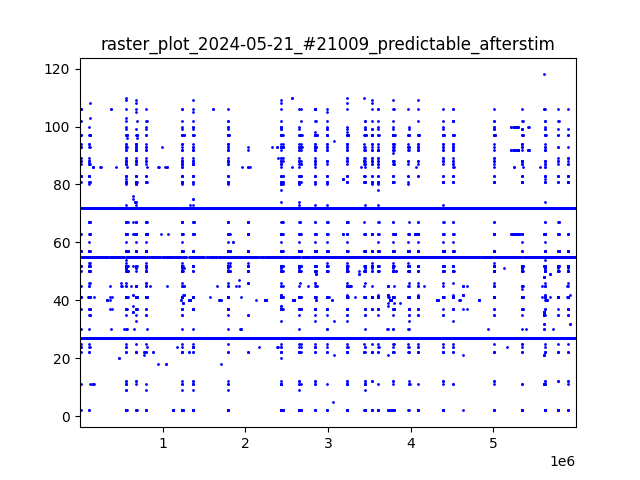
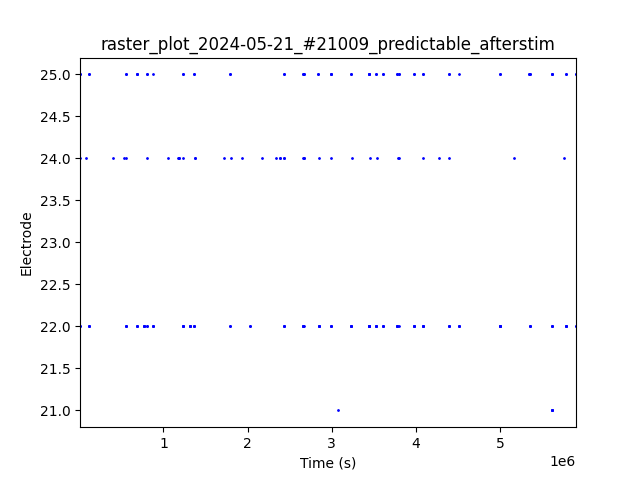
change the spikes and burst and ruster plot

diff --git a/Chanels.py b/Chanels.py
@@ -68,8 +68,8 @@ class ChannelAnalyzer:
         self.dt = 1 / sampling_rate
 
         # Load the data
-        self.data = RawData(self.file_path)  # change this
-        self.analog_stream = self.data.recordings[0].analog_streams[2]
+        self.data = RawData(self.file_path)  
+        self.analog_stream = self.data.recordings[0].analog_streams[3]# the filter data is in 3
         self.channel_data = self.analog_stream.channel_data
         self.date = self.data.date
 
@@ -110,7 +110,7 @@ class ChannelAnalyzer:
             self.active_check()
             self.find_Average_Spikes()
             self.Spikes_rate = self.num_of_spikes / len(self.time_vec)
-            if self.find_burst(3, 3):  # change this to be - the num of burst 50 milisec
+            if self.find_burst():  # change this to be - the num of burst 50 milisec
                 self.Num_Of_Bursts = len(self.Group_Of_Bursts)
                 self.burst_rate = self.Num_Of_Bursts / len(self.time_vec)
             if self.num_of_spikes >= 10:
@@ -133,7 +133,7 @@ class ChannelAnalyzer:
     def find_spikes(self, threshold_factor=6):  # change the formula to find spiks
         overall_std_deviation = np.std(self.samples_vec)
         threshold_value = threshold_factor * overall_std_deviation
-        mask = np.abs(self.samples_vec) > threshold_value
+        mask = np.abs(self.samples_vec- np.mean(self.samples_vec)) > threshold_value
         if np.all(~mask):
             self.spikes_samples_vec = np.array([])
             self.spikes_samples_vec_time = np.array([])
@@ -181,7 +181,7 @@ class ChannelAnalyzer:
             self.Average_Spikes = np.mean([abs(x) for x in self.max_values])
         return self.Average_Spikes
 
-    def find_burst(self, max_dist, min_spikes):  # the dist is milisec?
+    def find_burst(self, max_dist=0.05*10**4, min_spikes=3):  # the dist is milisec?
         count = 0
         sum = 0
         temp = []
@@ -211,19 +211,20 @@ class ChannelAnalyzer:
     def find_start_burst_time(self):
         self.burst_start_time = []
         for i in range(1, len(self.Group_Of_Bursts) - 1):
-            self.burst_start_time.append(self.Group_Of_Bursts[1][1])
+            self.burst_start_time.append(self.Group_Of_Bursts[i][1])
         return 0
 
-    def plot_signal(self, record_type):
+    def plot_signal(self):
         output_dir = 'spikes_and_barst'
         os.makedirs(output_dir, exist_ok=True)
         for value in self.max_values_time:
             value = value / (10 ** 4)
             plt.axvline(x=value, ymin=0, ymax=0.06, color='r', linestyle='-')
 
-        for v in self.burst_start_time:
-            v = v / (10 ** 4)
-            plt.axvline(x=value, ymin=0.94, ymax=1, color='b', linestyle='-')
+        if self.Group_Of_Bursts!=[]:
+            for v in self.burst_start_time:
+                v=v/10**4
+                plt.axvline(x=v, ymin=0.94, ymax=1, color='b', linestyle='-')
 
         pattern = r'(\d{4}-\d{2}-\d{2})T\d{2}-\d{2}-\d{2}McsRecording_MEA(\d+)_(predictable|control)_(afterstim|baseline)'
 
@@ -241,7 +242,7 @@ class ChannelAnalyzer:
             graph_name = "dug"
         plt.plot(self.time_vec, self.samples_vec)
         plt.xlabel('Time (s)')
-        plt.ylabel('Amplitude (microV)')
+        plt.ylabel('Amplitude (V)')
         plt.title(graph_name)
         plt.grid(True)
         plt.savefig(graph_name)

diff --git a/analysis_manager.py b/analysis_manager.py
@@ -31,8 +31,7 @@ sampling_rate = 10000  # sample rate in Hz
 
 # path to file that we want to run action 1-3
 # raw_data_path = "C:/Users/user/Desktop/bar ilan/Forth year/project/your_file.h5"  # YOAV'S LINK
-raw_data_path = r"C:\Users\dvirg\OneDrive\Desktop\toar1\year4\project\CODE\recorders\2024-06-13T17-31-24McsRecording_MEA23414_predictable_baseline_A-00020.h5"
-
+raw_data_path = r"C:\Users\dvirg\OneDrive\Desktop\toar1\year4\project\CODE\recorders\2024-05-21T15-43-17McsRecording_MEA21009_predictable_afterstim_A-00020.h5"
 # Paths to the files thst we want to run action 4(compare between files)
 file_path_compare1 = "C:/Users/dvirg/OneDrive/Desktop/toar1/year4/project/CODE/2024-06-13T14-15-16McsRecording_MEA21009_predictable_baseline_A-00020.h5"  # Replace with the actual path to baseline file
 file_path_compare2 = "C:/Users/dvirg/OneDrive/Desktop/toar1/year4/project/CODE/2024-06-13T14-35-58McsRecording_MEA21009_predictable_afterstim_A-00020.h5"  # Replace with the actual path to stimulus file
@@ -41,11 +40,6 @@ file_path_compare2 = "C:/Users/dvirg/OneDrive/Desktop/toar1/year4/project/CODE/2
 predictable_file = '2024-02-01_21009_predictable.xlsx'
 controller_file = '2024-02-01_20490_control.xlsx'
 
-print("choose channel id:")
-channel_id = int(input())  # Example channel ID
-
-# Initialize the ChannelAnalyzer for the selected channel
-channel_analyzer = ChannelAnalyzer(raw_data_path, channel_id, sampling_rate)
 
 print("choose action: \n1: plot signal \n2: plot_heatmap\n3: raster_plot\n4: electrode_comparison_analysis")
 
@@ -54,7 +48,13 @@ action = int(input())
 
 # plot signal
 if action == 1:
-    channel_analyzer.plot_signal(record_type=True)
+    print("choose channel id:")
+    channel_id = int(input())  # Example channel ID
+
+    # Initialize the ChannelAnalyzer for the selected channel
+    channel_analyzer = ChannelAnalyzer(raw_data_path, channel_id, sampling_rate)
+    print (channel_analyzer.Group_Of_Bursts)
+    channel_analyzer.plot_signal()
 
 # plot heat map
 if action == 2:

diff --git a/raster_plot.py b/raster_plot.py
@@ -5,9 +5,8 @@ import matplotlib.pyplot as plt
 
 from Chanels import ChannelAnalyzer
 
-
 # File path
-# file_path = r"C:\Users\dvirg\OneDrive\Desktop\toar1\year4\project\CODE\recorders\2024-06-13T17-31-24McsRecording_MEA23414_predictable_baseline_A-00020.h5"
+#file_path = r"C:\Users\dvirg\OneDrive\Desktop\toar1\year4\project\CODE\recorders\2024-06-13T17-31-24McsRecording_MEA23414_predictable_baseline_A-00020.h5"
 # Regex pattern to extract the date, MEA ID, and the last segment (predictable or control)
 
 def create_raster_plot(file_path):
@@ -27,7 +26,7 @@ def create_raster_plot(file_path):
         all_max_values_time = []
 
         # Iterate over electrodes
-        for electrode in range(0, 120):  # Assuming electrodes range from 1 to 120
+        for electrode in range(20, 25):  # Assuming electrodes range from 1 to 120
             print(electrode)
             analyzer = ChannelAnalyzer(file_path, electrode)
             analyzer.get_channel_data(electrode)
